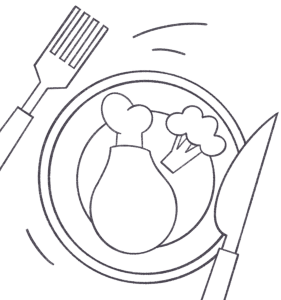
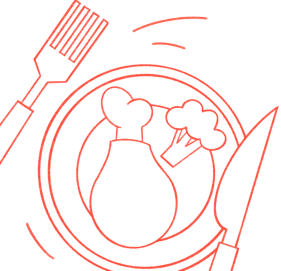
create reusable button

diff --git a/lib/app/widgets/app_button.dart b/lib/app/widgets/app_button.dart
@@ -1,0 +1,131 @@
+import 'package:flutter/material.dart';
+import 'package:menu_barcode_apps/app/constants/app_text_style.dart';
+import 'package:menu_barcode_apps/app/widgets/app_text.dart';
+
+import '../constants/app_colors.dart';
+
+enum AppButtonVariant {
+  primary,
+  secondary,
+  other,
+}
+
+enum AppButtonSize {
+  small,
+  regular,
+  big,
+}
+
+class AppButton extends StatelessWidget {
+  final String label;
+  final VoidCallback onTap;
+  final BorderRadius? borderRadius;
+  final Widget prefixIcon;
+  final Widget suffixIcon;
+  final EdgeInsets margin;
+  final bool disabled;
+  final AppButtonVariant variant;
+  final AppButtonSize size;
+  const AppButton({
+    Key? key,
+    required this.label,
+    required this.onTap,
+    this.borderRadius,
+    this.prefixIcon = const SizedBox.shrink(),
+    this.suffixIcon = const SizedBox.shrink(),
+    this.margin = EdgeInsets.zero,
+    this.disabled = false,
+    this.variant = AppButtonVariant.primary,
+    this.size = AppButtonSize.big,
+  }) : super(key: key);
+
+  @override
+  Widget build(BuildContext context) {
+    BorderRadius initialBorderRadius = BorderRadius.circular(20);
+    return Padding(
+      padding: margin,
+      child: Material(
+        borderRadius: borderRadius ?? initialBorderRadius,
+        color: disabled ? disabledBgColor : bgColor,
+        child: InkWell(
+          splashColor: Colors.transparent,
+          highlightColor: Colors.transparent,
+          borderRadius: borderRadius ?? initialBorderRadius,
+          onTap: () {
+            if (!disabled) {
+              FocusManager.instance.primaryFocus?.unfocus();
+              onTap();
+            }
+          },
+          child: Container(
+            padding: const EdgeInsets.symmetric(vertical: 10, horizontal: 20),
+            child: Row(
+              mainAxisAlignment: MainAxisAlignment.spaceBetween,
+              mainAxisSize: size != AppButtonSize.big
+                  ? MainAxisSize.min
+                  : MainAxisSize.max,
+              children: [
+                prefixIcon,
+                AppText(label,
+                    style: disabled ? disabledLabelStyle : labelStyle),
+                suffixIcon
+              ],
+            ),
+          ),
+        ),
+      ),
+    );
+  }
+
+  Color get bgColor {
+    switch (variant) {
+      default:
+        return AppColors.primaryOrange;
+    }
+  }
+
+  Color get disabledBgColor {
+    switch (variant) {
+      default:
+        return AppColors.primaryOrange.withAlpha(100);
+    }
+  }
+
+  Color get labelColor {
+    switch (variant) {
+      default:
+        return Colors.white;
+    }
+  }
+
+  Color get disabledLabelColor {
+    switch (variant) {
+      default:
+        return Colors.black26;
+    }
+  }
+
+  TextStyle get labelStyle {
+    switch (size) {
+      case AppButtonSize.small:
+        return AppTextStyle.caption.copyWith(color: labelColor);
+      case AppButtonSize.regular:
+        return AppTextStyle.body1.copyWith(color: labelColor);
+      default:
+        return AppTextStyle.title2
+            .copyWith(fontWeight: FontWeight.w600, color: labelColor);
+    }
+  }
+
+  TextStyle get disabledLabelStyle {
+    switch (size) {
+      case AppButtonSize.small:
+        return AppTextStyle.caption.copyWith(color: disabledLabelColor);
+      case AppButtonSize.regular:
+        return AppTextStyle.body1.copyWith(color: disabledLabelColor);
+      default:
+        return AppTextStyle.title2
+            .copyWith(fontWeight: FontWeight.w600, color: disabledLabelColor);
+    }
+  }
+}

diff --git a/lib/app/widgets/app_text.dart b/lib/app/widgets/app_text.dart
@@ -1,6 +1,7 @@
 import 'package:flutter/material.dart';
+import 'package:menu_barcode_apps/app/constants/app_text_style.dart';
 
-class CustomText extends StatelessWidget {
+class AppText extends StatelessWidget {
   final String text;
   final TextStyle? style;
   final bool ellipsis;
@@ -8,7 +9,7 @@ class CustomText extends StatelessWidget {
   final int? maxLines;
   final bool applyHeightToFirstAscent;
 
-  const CustomText(
+  const AppText(
     this.text, {
     Key? key,
     this.ellipsis = false,
@@ -21,7 +22,7 @@ class CustomText extends StatelessWidget {
   @override
   Widget build(BuildContext context) {
     return Text(text,
-        style: style,
+        style: style ?? AppTextStyle.body1,
         textAlign: textAlign,
         overflow: ellipsis ? TextOverflow.ellipsis : null,
         maxLines: maxLines,

diff --git a/lib/app/constants/app_text_style.dart b/lib/app/constants/app_text_style.dart
@@ -13,7 +13,10 @@ class AppTextStyle {
       _textStyle.copyWith(fontSize: 28, fontWeight: FontWeight.w500);
 
   static TextStyle title2 =
-      _textStyle.copyWith(fontSize: 22, fontWeight: FontWeight.w600);
+      _textStyle.copyWith(fontSize: 24, fontWeight: FontWeight.w500);
+
+  static TextStyle title3 =
+      _textStyle.copyWith(fontSize: 22, fontWeight: FontWeight.w500);
 
   static TextStyle headline =
       _textStyle.copyWith(fontSize: 20, fontWeight: FontWeight.w600);

diff --git a/lib/app/constants/images.dart b/lib/app/constants/images.dart
@@ -6,11 +6,16 @@ class AppImages {
 }
 
 Image getPngImage(String src,
-        {double? height, double? width, BoxFit? fit, Color? color}) =>
+        {double? height,
+        double? width,
+        BoxFit? fit,
+        Color? color,
+        BlendMode? blendMode}) =>
     Image.asset(
       src,
       color: color,
       height: height,
       width: width,
       fit: fit,
+      colorBlendMode: blendMode,
     );

diff --git a/lib/app/widgets/widgets.dart b/lib/app/widgets/widgets.dart
@@ -1,1 +1,1 @@
-export 'custom_text.dart';
+export 'app_text.dart';
